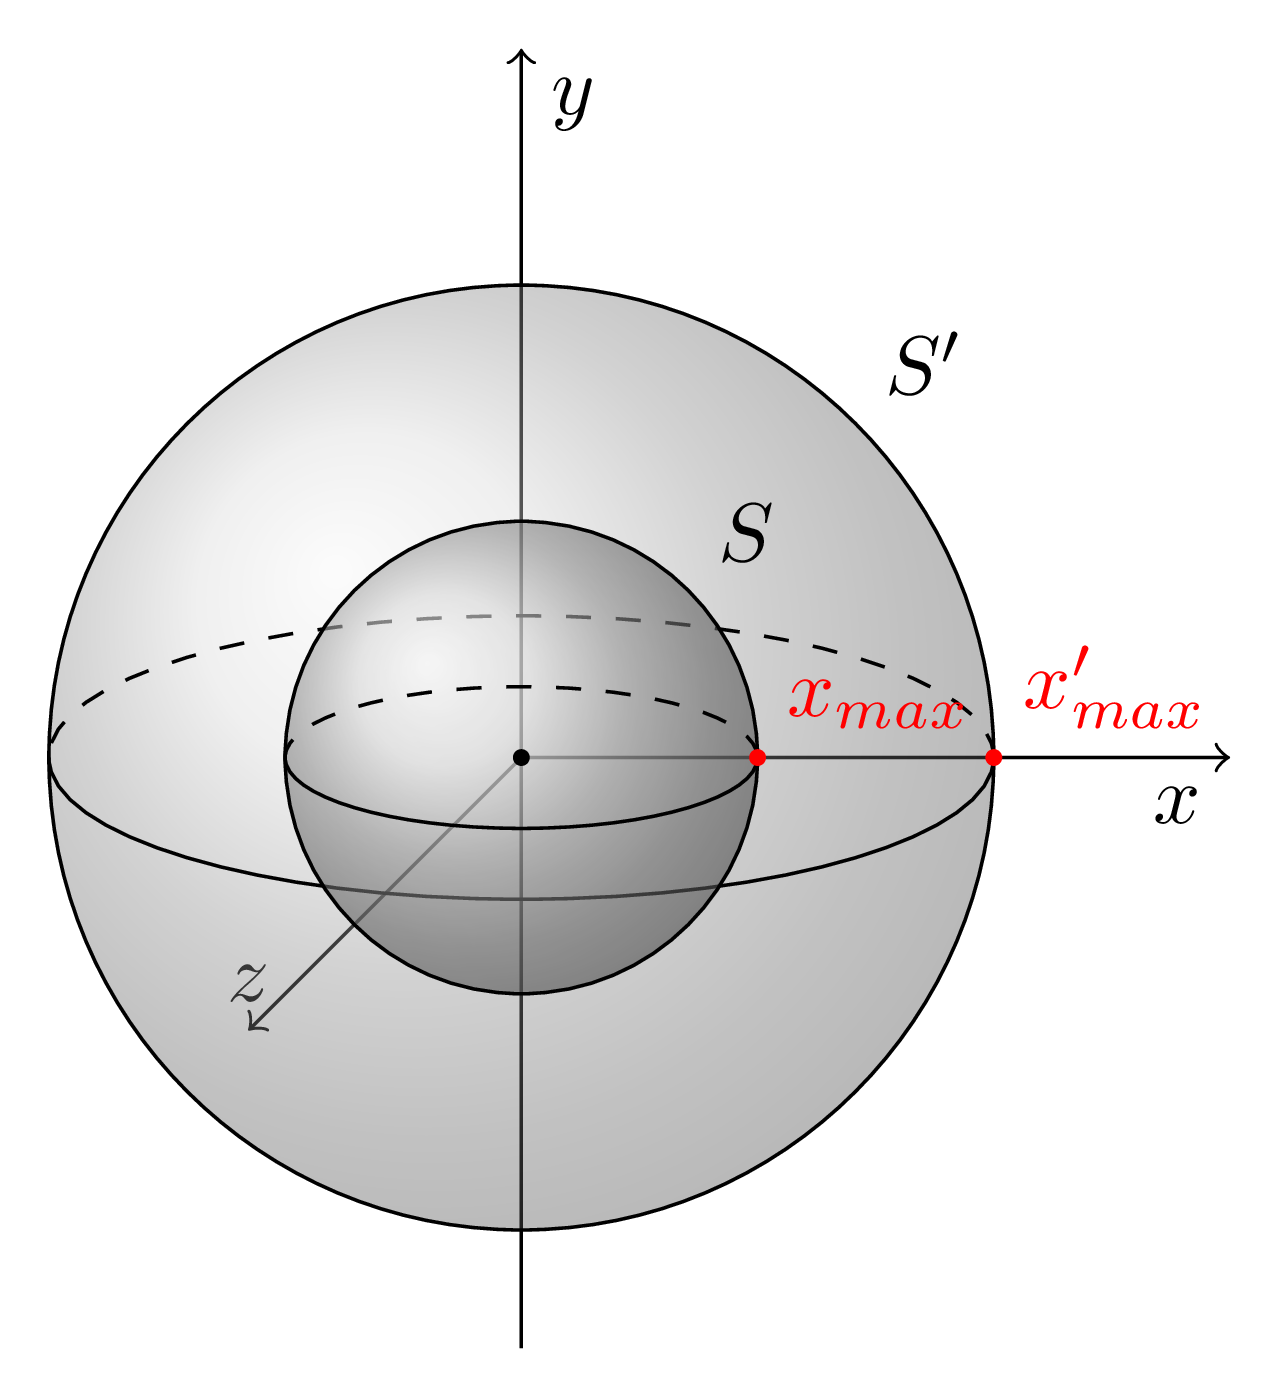
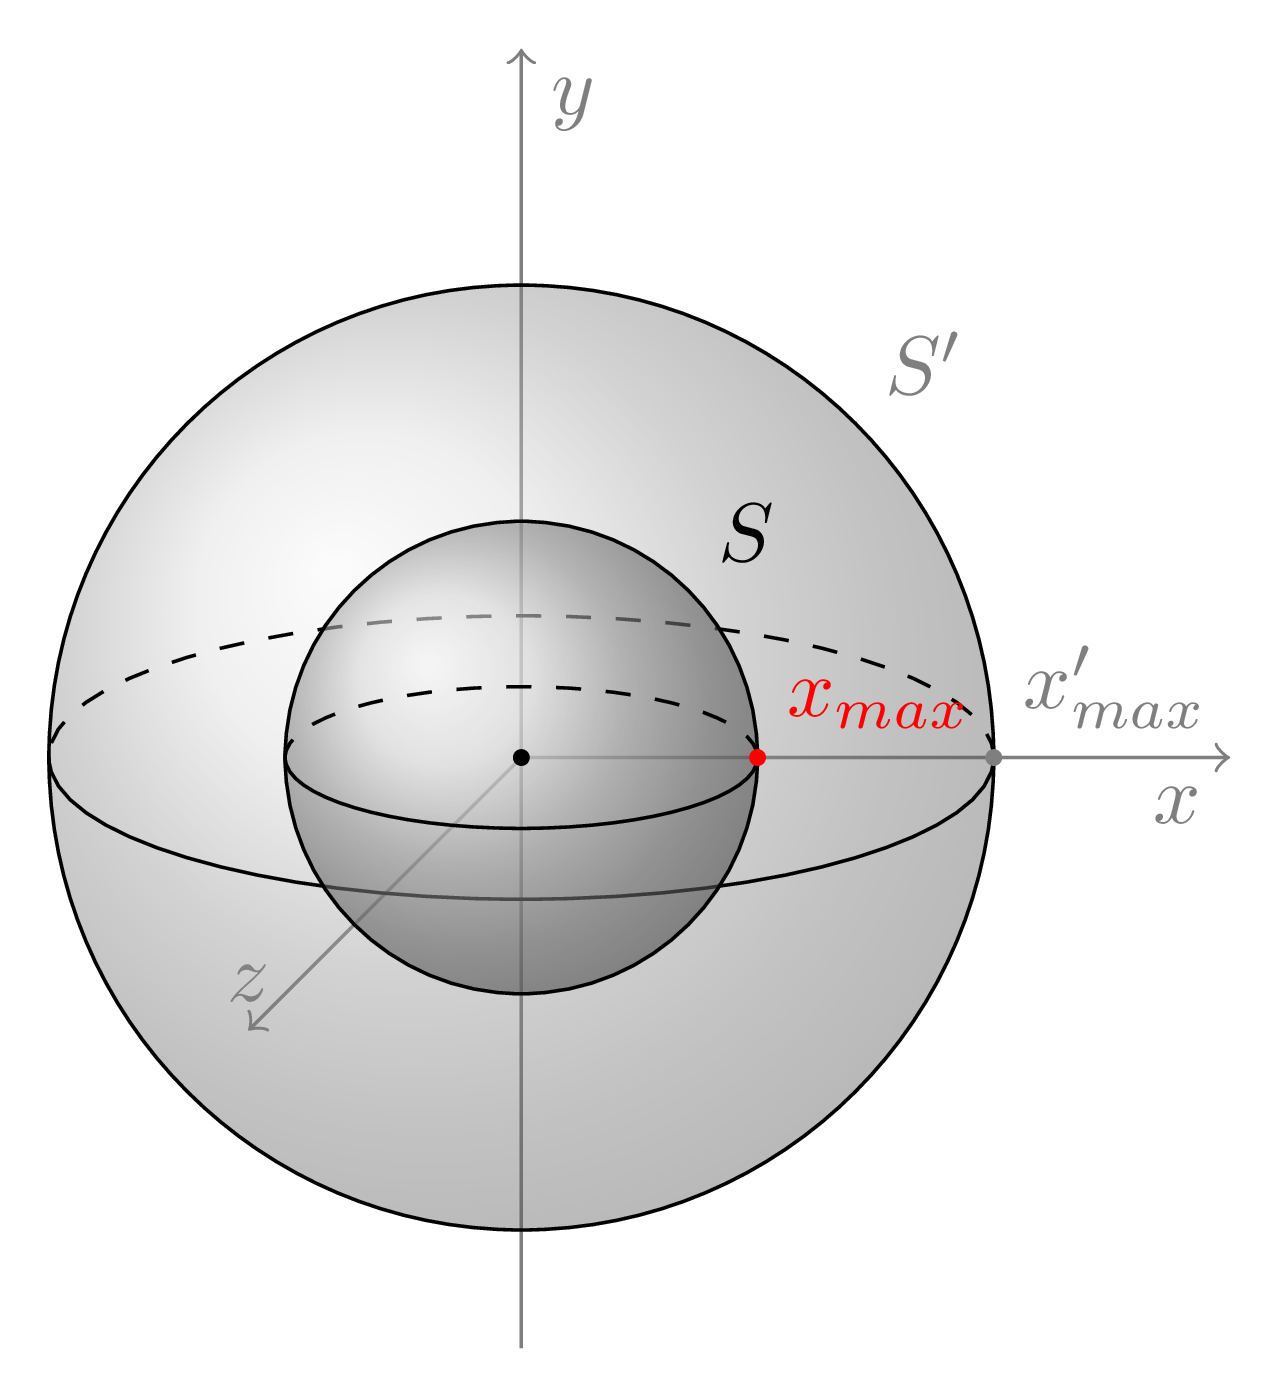
update colors of figure

diff --git a/images/sphere.tex b/images/sphere.tex
@@ -3,9 +3,9 @@
 \begin{document}
 \begin{tikzpicture}
 
-\draw[->] (0,0,0) -- (3,0,0) node[anchor=north east]{$x$};
-\draw[->] (0,-2.5,0) -- (0,3,0) node[anchor=north west]{$y$};
-\draw[->] (0,0,0) -- (0,0,3) node[anchor=south]{$z$};
+\draw[->, color=gray] (0,0,0) -- (3,0,0) node[anchor=north east]{$x$};
+\draw[->, color=gray] (0,-2.5,0) -- (0,3,0) node[anchor=north west]{$y$};
+\draw[->, color=gray] (0,0,0) -- (0,0,3) node[anchor=south]{$z$};
 
 \shade[ball color = gray!40, opacity = 0.4] (0,0) circle (2);
 \draw (0,0) circle (2);
@@ -18,11 +18,11 @@
 \draw[dashed] (1,0) arc (0:180:1 and 0.3);
 
 \fill ({cos(45)},{sin(45)},0) circle (0pt) node[anchor=south west]{$S$};
-\fill ({2*cos(45)},{2*sin(45)},0) circle (0pt) node[anchor=south west]{$S'$};
+\fill ({2*cos(45)},{2*sin(45)},0) circle (0pt) node[anchor=south west, gray]{$S'$};
 
 \fill[fill=black] (0,0,0) circle (1pt);
 \fill[fill=red] (1,0,0) circle (1pt) node[anchor=south west, red]{$x_{max}$};
-\fill[fill=red] (2,0,0) circle (1pt) node[anchor=south west, red]{$x'_{max}$};
+\fill[fill=gray] (2,0,0) circle (1pt) node[anchor=south west, gray]{$x'_{max}$};
 
 \end{tikzpicture}
 \end{document}
